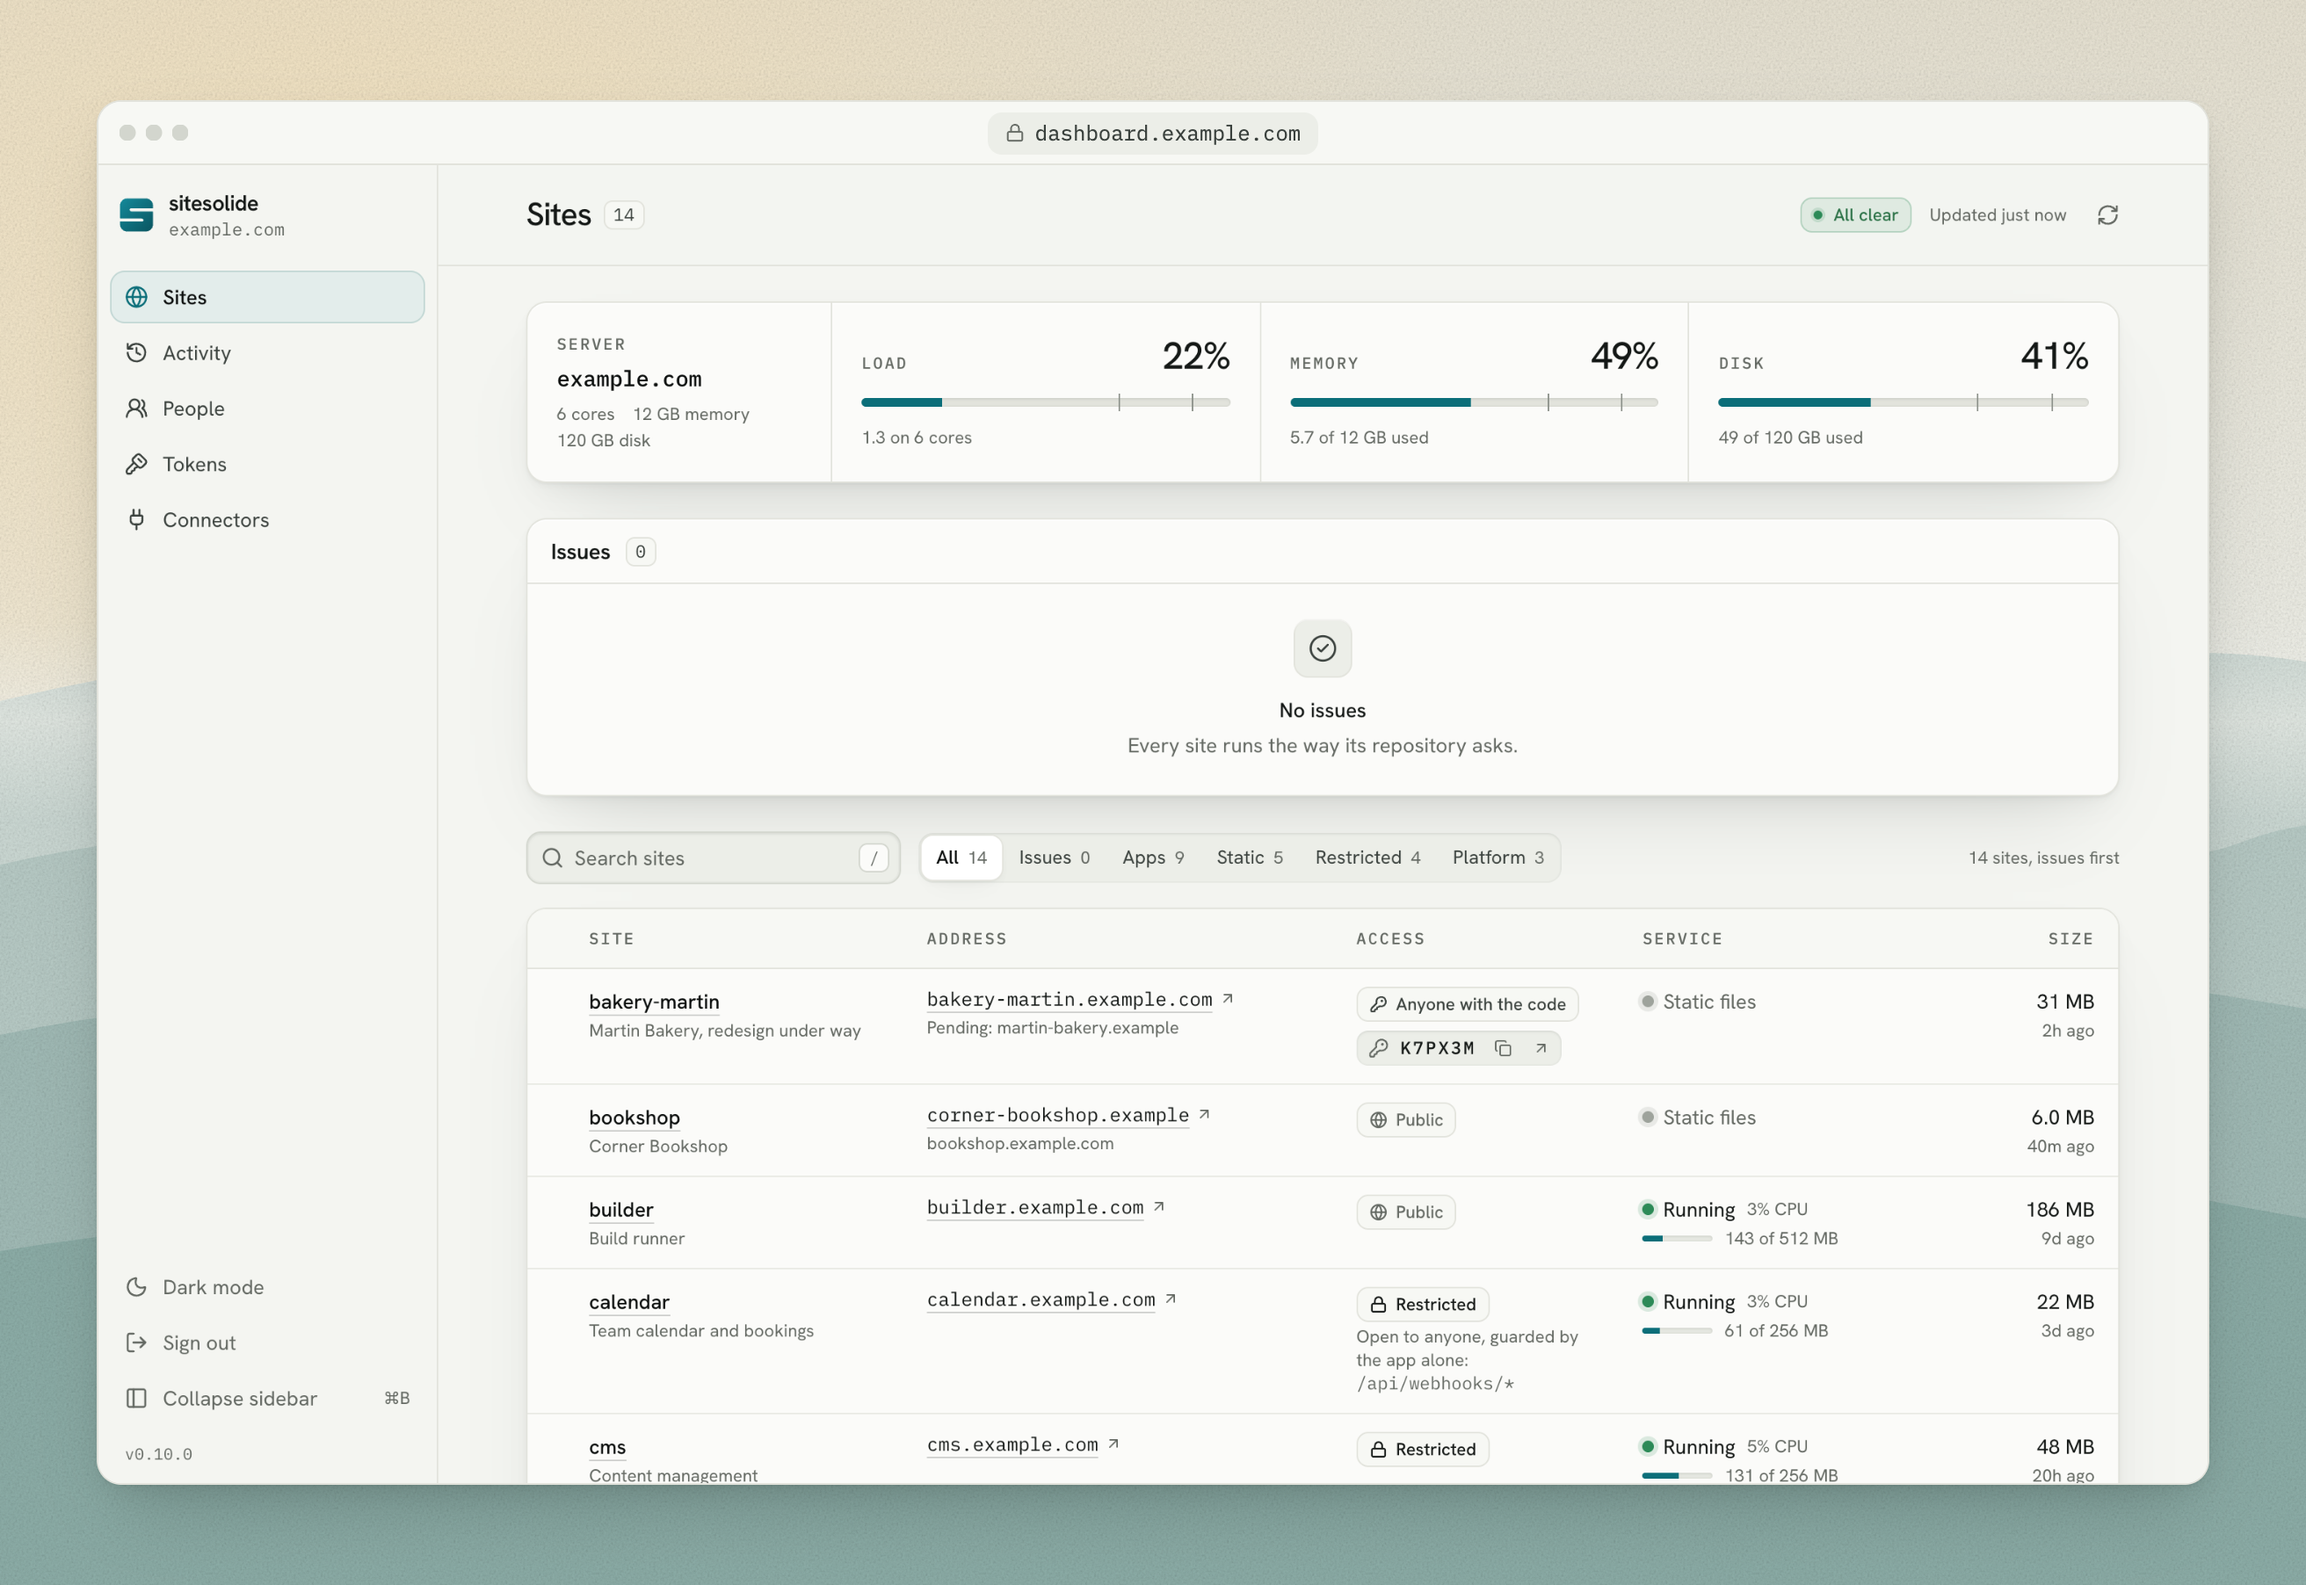
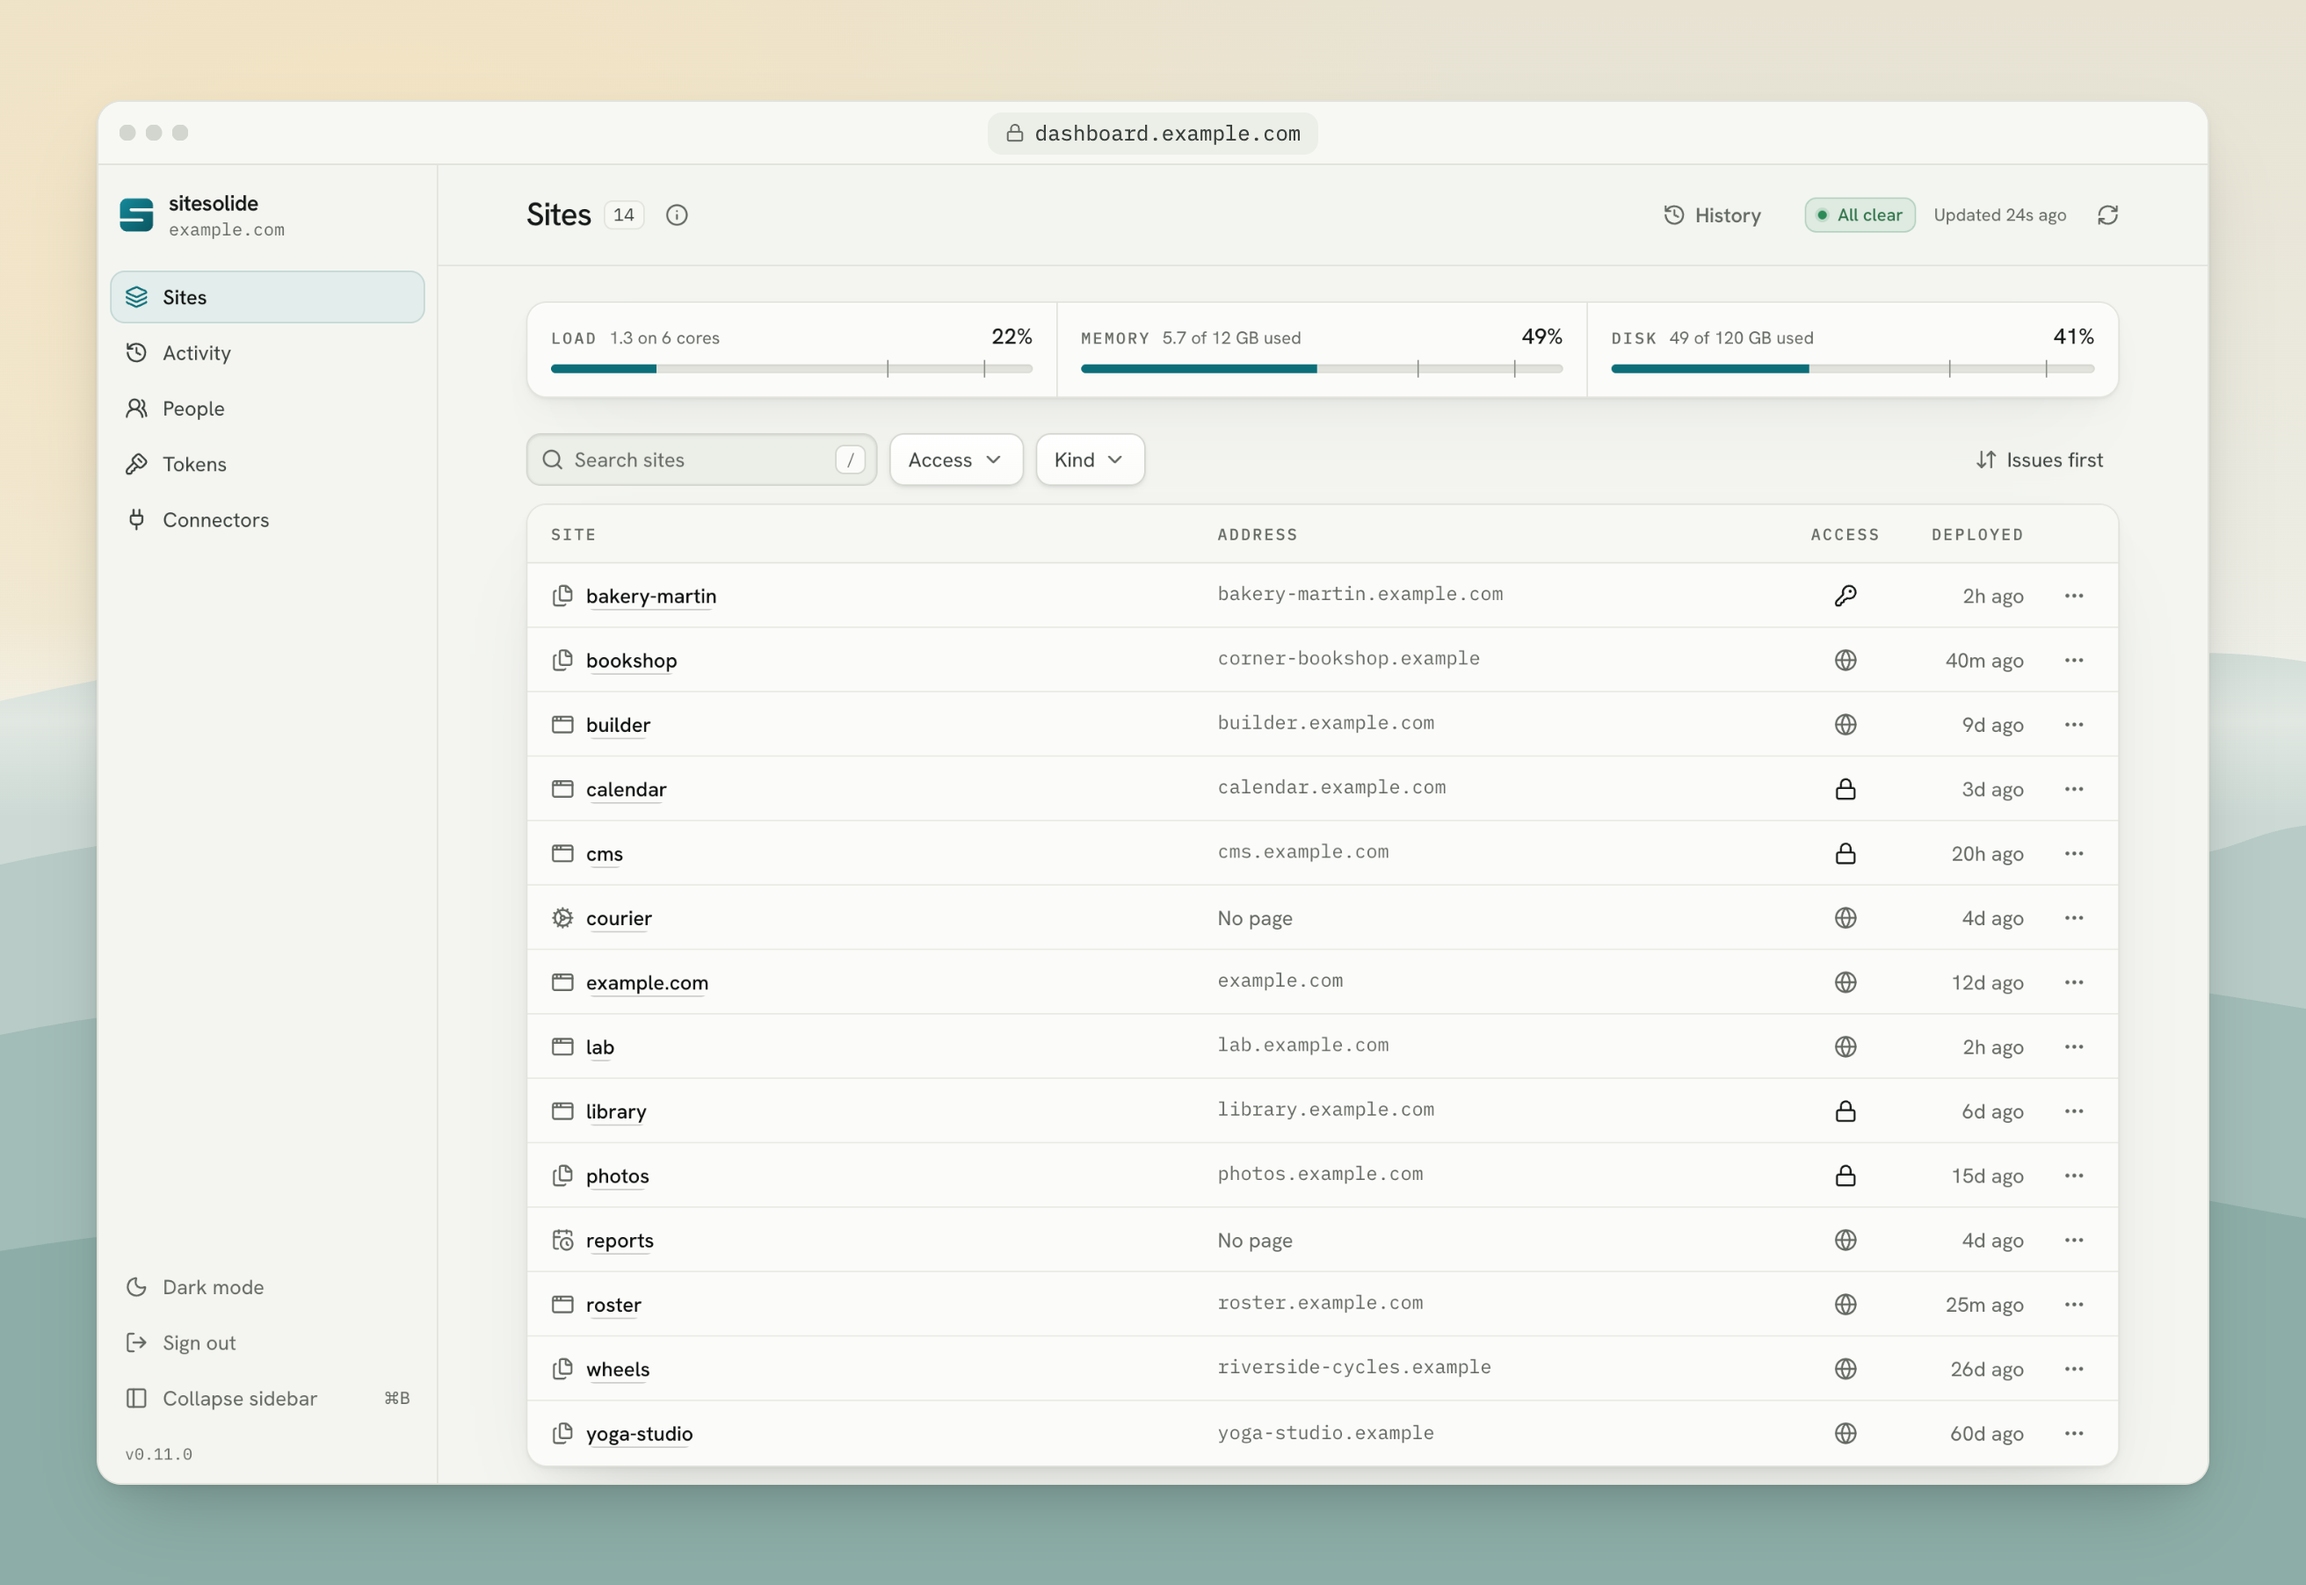
Redraw the brand assets as the site and the dashboard now are
The logo files still carried the drawing from before Ledger, a petrol block
with a hard shadow beside an Archivo wordmark, while the site, the dashboard
and the portal all draw the teal gradient block beside Hanken Grotesk. The
name is converted to outlines so the files render without the font, and laid
out in the header's own pixels so the README shows what the site shows.

The screenshots showed the dashboard before it moved to one line per site,
tables with side sheets and history in Activity; they are retaken from the
bench in showcase mode on the views that carry that design. The landscape is
drawn without its grain, as the share card is, which brings the files from
4.7 MB to 1.1 MB with no visible loss at the size a README displays them.

The social card follows the landing page's new share card, with the
repository's address.

diff --git a/docs/assets/README.md b/docs/assets/README.md
@@ -2,43 +2,90 @@
 
 | File | Use |
 |---|---|
-| `logo-light.svg` | The logo on a light background: the README, documentation. Still the earlier drawing, see below. |
-| `logo-dark.svg` | The same on a dark background, where the mark's line turns pale and its shadow lifts. Still the earlier drawing. |
-| `mark.svg` | The mark alone, square, for an avatar or an icon, in its Ledger drawing. |
-| `social-preview.png` | The repository's social card, 1280 × 640: the landing page's share card, its title and its command, with the repository's address. Still the look before Ledger, until it is taken again from the landing page's new card. GitHub does not read it from here: a new one is uploaded by hand under *Settings → Social preview*. |
-| `screenshots/` | Screenshots, `dashboard.png` in the README: the real dashboard, run by its page bench in showcase mode (`BENCH_SHOWCASE=1 bun scripts/page-bench.ts` in `dashboard/`), with fictitious sites, and the door page rendered by `portal/src/page.ts`. Each is framed as the landing page frames its hero: in its window, an address in its bar, on its dawn landscape. `dashboard.png` is Sites at 1440 × 900, in a window 1200 wide; `audience.png`, `site.png` and `secrets.png` the content alone of wheels' Audience and of cms's Overview and Secrets, 1208 × 739, and `preview-lock.png` the door page at 1200 × 720, each in a window 1000 wide, the door page's at `bakery-martin.example.com`, the others' at `dashboard.example.com`; all at twice the density, in light. |
+| `logo-light.svg` | The logo on a light background: the README, documentation. The mark and the name, as the landing page's header draws them. |
+| `logo-dark.svg` | The same on a dark background, where the name turns pale; the mark does not change. |
+| `mark.svg` | The mark alone, square, for an avatar or an icon. |
+| `social-preview.png` | The repository's social card, 1280 × 640: the landing page's share card, its title and its command, with the repository's address in place of the site's. GitHub does not read it from here: a new one is uploaded by hand under *Settings → Social preview*. |
+| `screenshots/` | Screenshots, `dashboard.png` in the README, described below. |
 
 **The mark** is a solid block with two slits cut in from opposite sides: the S
 of sitesolide, left standing in the material. The slits are holes rather than
 bars painted over the block, so any background shows through them.
 
-Its Ledger drawing is the block filling its square, a teal gradient from
-`#14899a` at its top left corner to `#0a5560` at its bottom right, the same in
-light and in dark. The landing page's header draws it so, and so do the
-dashboard (`dashboard/web/src/components/logo.tsx`, its `mark-hi` and
-`mark-lo` tokens), the portal's sign-in, the door page of locked previews and
-the portal's own root (`portal/src/page.ts`), and `mark.svg`. The favicons of
-all three are the same block, its gradient `#138896` to `#0a5560`, and
-`#5cc8d3` to `#2c98a4` in a dark browser, where the deep end would sink into
-the tab strip.
+The block fills its square, a teal gradient from `#14899a` at its top left
+corner to `#0a5560` at its bottom right, the same in light and in dark. The
+landing page's header draws it so, and so do the dashboard
+(`dashboard/web/src/components/logo.tsx`, its `mark-hi` and `mark-lo`
+tokens), the portal's sign-in, the door page of locked previews and the
+portal's own root (`portal/src/page.ts`), `mark.svg` and both logo files. The
+favicons of all three are the same block, its gradient `#138896` to
+`#0a5560`, and `#5cc8d3` to `#2c98a4` in a dark browser, where the deep end
+would sink into the tab strip.
 
-`logo-light.svg` and `logo-dark.svg` still carry the earlier drawing: the
-block laid twice, a hard shadow offset by 1.6 down and to the right, then a
-petrol face ringed with a line 1.5 wide, beside a wordmark in Archivo. Their
-Ledger version waits for the wordmark: the landing page sets the name in
-Hanken Grotesk at weight 600, tracked at -0.025 em, and the logo files need
-it converted to outlines, so the SVG renders the same without the font. A
-change goes to all of these files, and comes from the landing page first.
+**The wordmark** is the name in Hanken Grotesk, the landing page's face, at
+weight 600, tracked at -0.025 em. The logo files lay it out as the landing
+page's header does (`.brand`), in its pixels: the mark 26 px square, 10 px
+between them, the name at 19 px with its baseline 19 px below the mark's top.
+Their `viewBox` is that header, 113.01 × 26, closed on the right by the
+mark's own margin, a 32nd of its box; their intrinsic size is twice that.
 
-| Colour, earlier drawing | Light | Dark |
+The name is **converted to outlines**, so the SVG renders the same without the
+font: HarfBuzz shapes it from the variable font the landing page serves, at
+weight 600 with the font's kerning and no ligature, the letter spacing added
+after each glyph as a browser adds it, and the glyphs' outlines are drawn at
+that weight into one path, in font units, placed by a `translate` and a
+`scale` of 19/1000. Rendered where the header draws its brand and compared at
+twice the density, the files carry the same ink as the site's header within
+0.3 %, their centroid within 0.05 device pixel, in light and in dark. A change
+goes to all of these files, and comes from the landing page first.
+
+| Colour | Light | Dark |
 |---|---|---|
-| Wordmark | `#16181d` | `#e7e9ec` |
-| Mark's face | `#0b6e79` | `#0c6870` |
-| Mark's line | `#12211f` | `#cfe3dc` |
-| Mark's shadow | `#12211f` | `#4f7a70` |
+| Wordmark | `#141816` | `#e8edea` |
+| Mark | `#14899a` to `#0a5560` | the same |
+
+The wordmark's colours are the landing page's `--ink`, in light and in dark,
+which are the dashboard's `foreground`.
 
 **One colour family.** The mark's colours are the landing page's own, around
 the accent, `#0b6e79`, so the logo and the accent read as the same teal. Red
 is the dashboard's error colour, and the portal's, never the brand's. The
 dashboard's tokens, `mark-hi`, `mark-lo`, `primary` and `foreground`, are in
 `dashboard/web/src/styles/global.css`.
+
+**The screenshots** are the real dashboard, run by its page bench in showcase
+mode, with fictitious sites, and the real door page:
+
+```bash
+cd dashboard && SITESOLIDE_BUILD_VERSION=$(git describe --tags --abbrev=0) bun run build
+BENCH_SHOWCASE=1 bun scripts/page-bench.ts   # password: demo
+```
+
+The build is handed the release the tree is at: the assets being retaken
+leave the tree dirty, and the sidebar would say so. The door page is the HTML
+`doorPage` in `portal/src/page.ts` writes, its contact `hello@example.com`.
+Each page is taken by the workstation's Chrome, driven by Playwright, at twice
+the density, in light, the clock in UTC:
+
+| File | What | Taken at | Window |
+|---|---|---|---|
+| `dashboard.png` | Sites | 1440 × 900 | 1200 wide, `dashboard.example.com` |
+| `tokens.png` | Tokens, Release agent's sheet open | 1440 × 900 | 1200 wide, `dashboard.example.com` |
+| `access.png` | cms's Access, the content alone | 1208 × 739 | 1000 wide, `dashboard.example.com` |
+| `preview-lock.png` | The door page | 1200 × 720 | 1000 wide, `bakery-martin.example.com` |
+
+Each is framed as the landing page frames its hero: in its window, an address
+in its bar, on its dawn landscape, 1312 × 902 for a window 1200 wide and
+1088 × 728 for one 1000 wide. The landscape is drawn without its grain, as the
+share card draws it: the noise tripled every file's weight, and does not show
+at the size a README displays them. The files are then recompressed
+losslessly with oxipng. The scripts that take, frame and compress them, and the
+one that converts the name to outlines, are the workstation's, not kept here:
+they need Playwright, HarfBuzz, fontTools and oxipng, which nothing in this
+repository depends on.
+
+**The social card** is the landing page's share card redrawn at GitHub's
+1280 × 640, at one pixel per pixel: the same landscape without grain, the
+mark and its name, the hero's title with its serif accent, and the deploy
+command in a terminal well, set in the site's own fonts; the address under it
+is `github.com/cthiriet/sitesolide`.

diff --git a/README.md b/README.md
@@ -13,7 +13,7 @@ by you or run by an agent, puts it live on HTTPS, behind your company's
 sign-in, open to exactly the people who need it. One machine, no
 containers, no per-seat pricing.
 
-<img alt="The dashboard: every site on the machine, with its address, its access, its service and its size" src="docs/assets/screenshots/dashboard.png">
+<img alt="The dashboard: every site on the machine, one line each, with its address, its access and when it was deployed" src="docs/assets/screenshots/dashboard.png">
 
 ## Quick start
 
